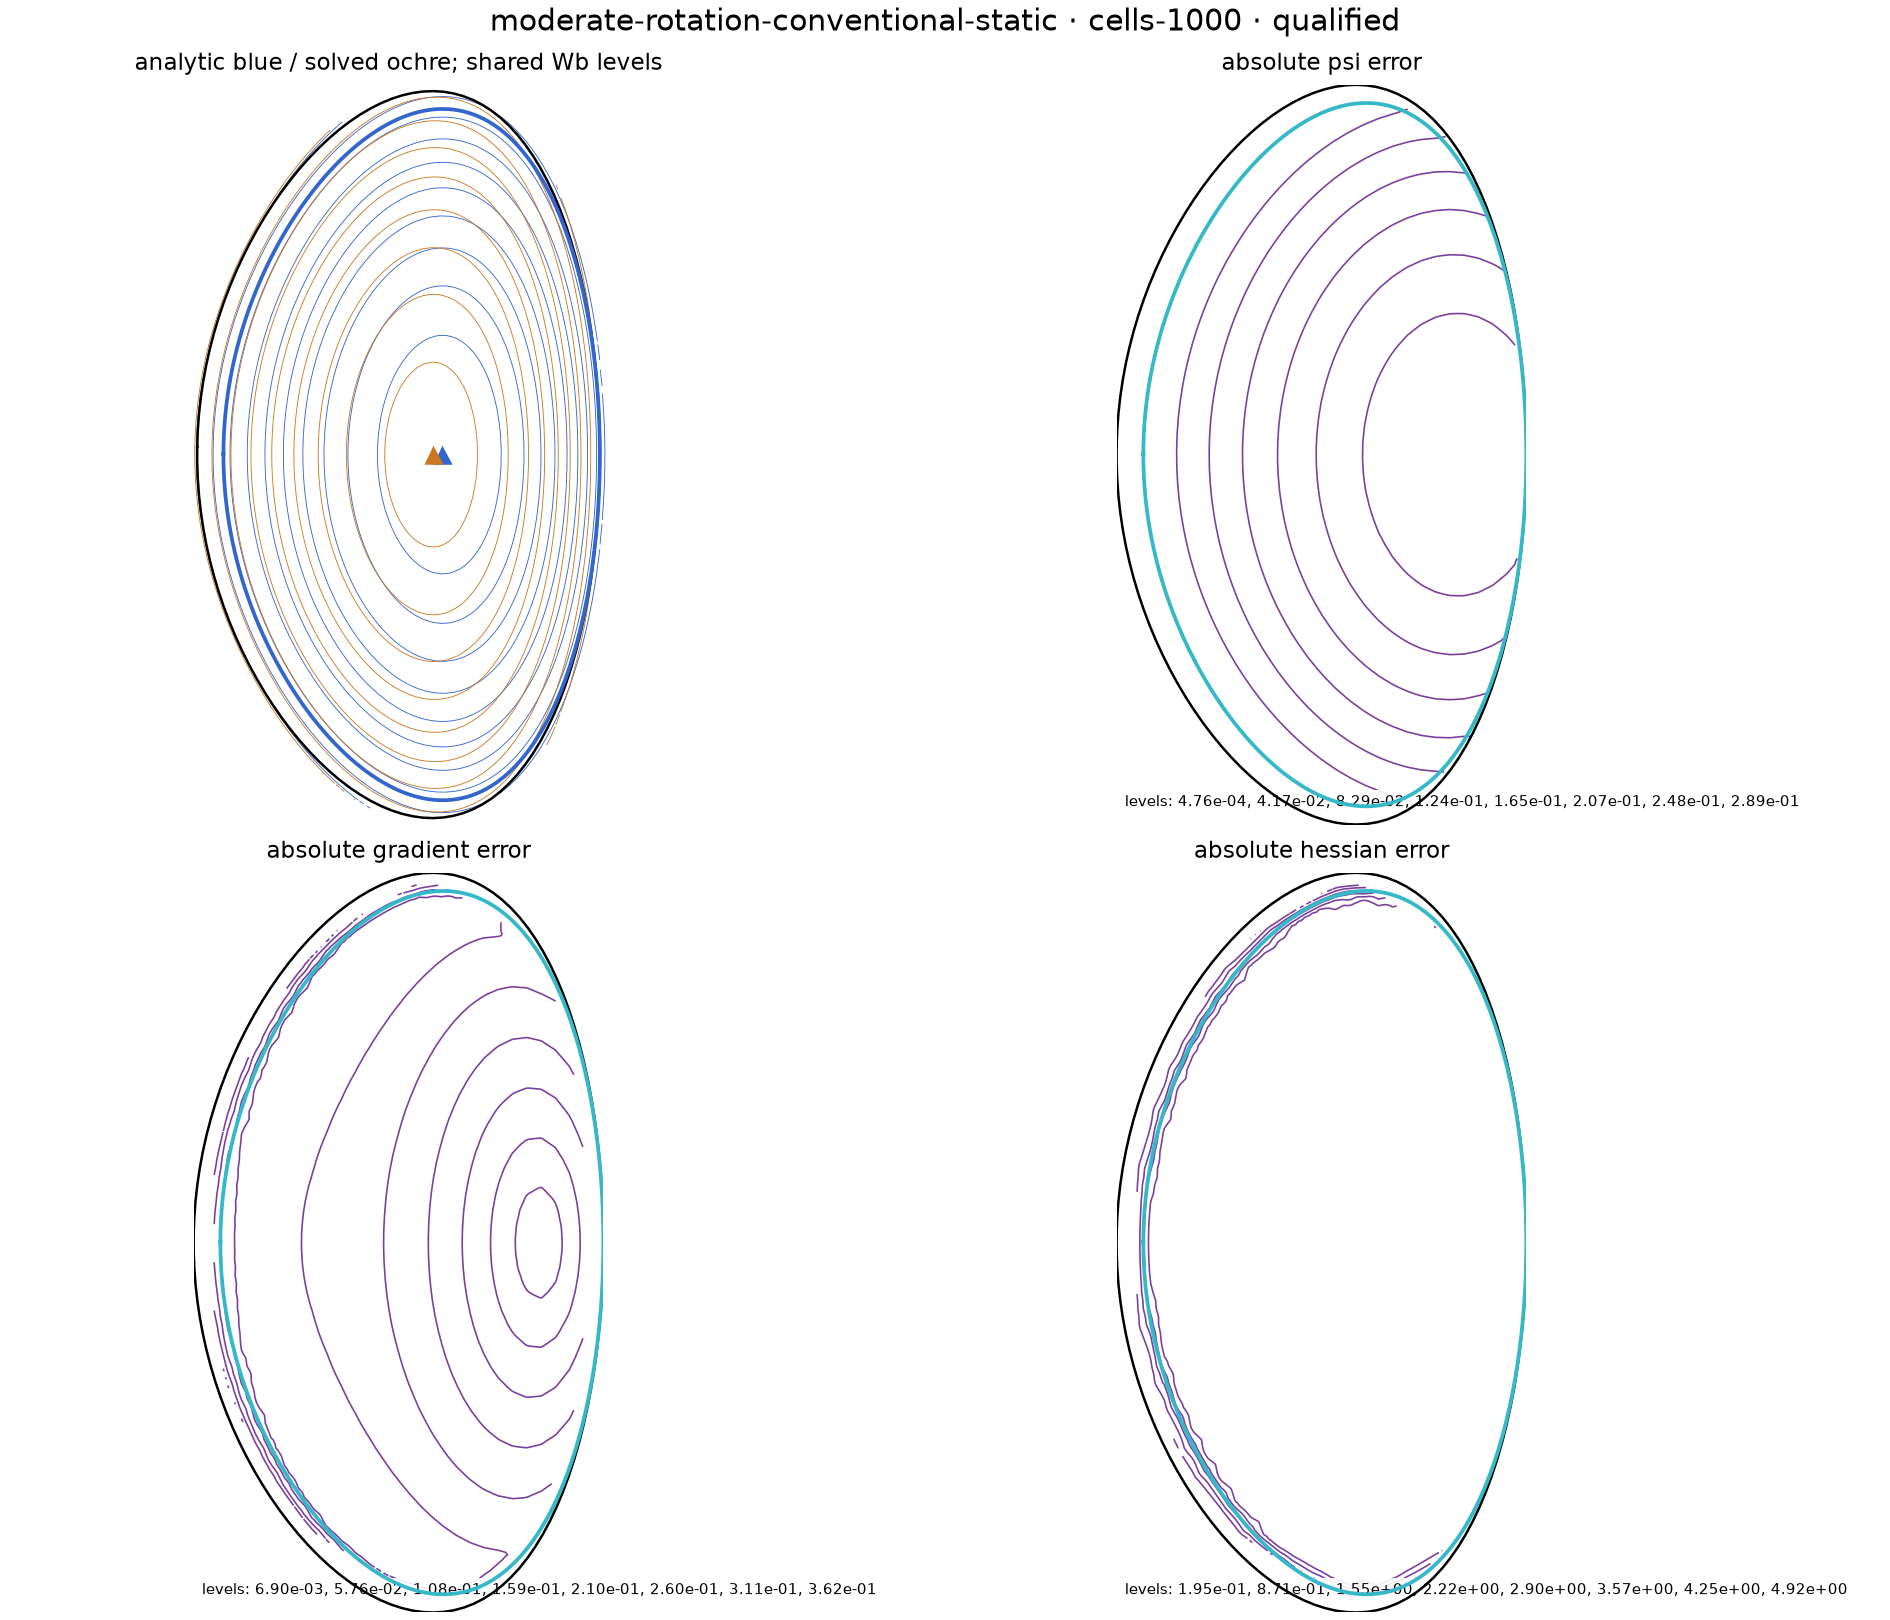
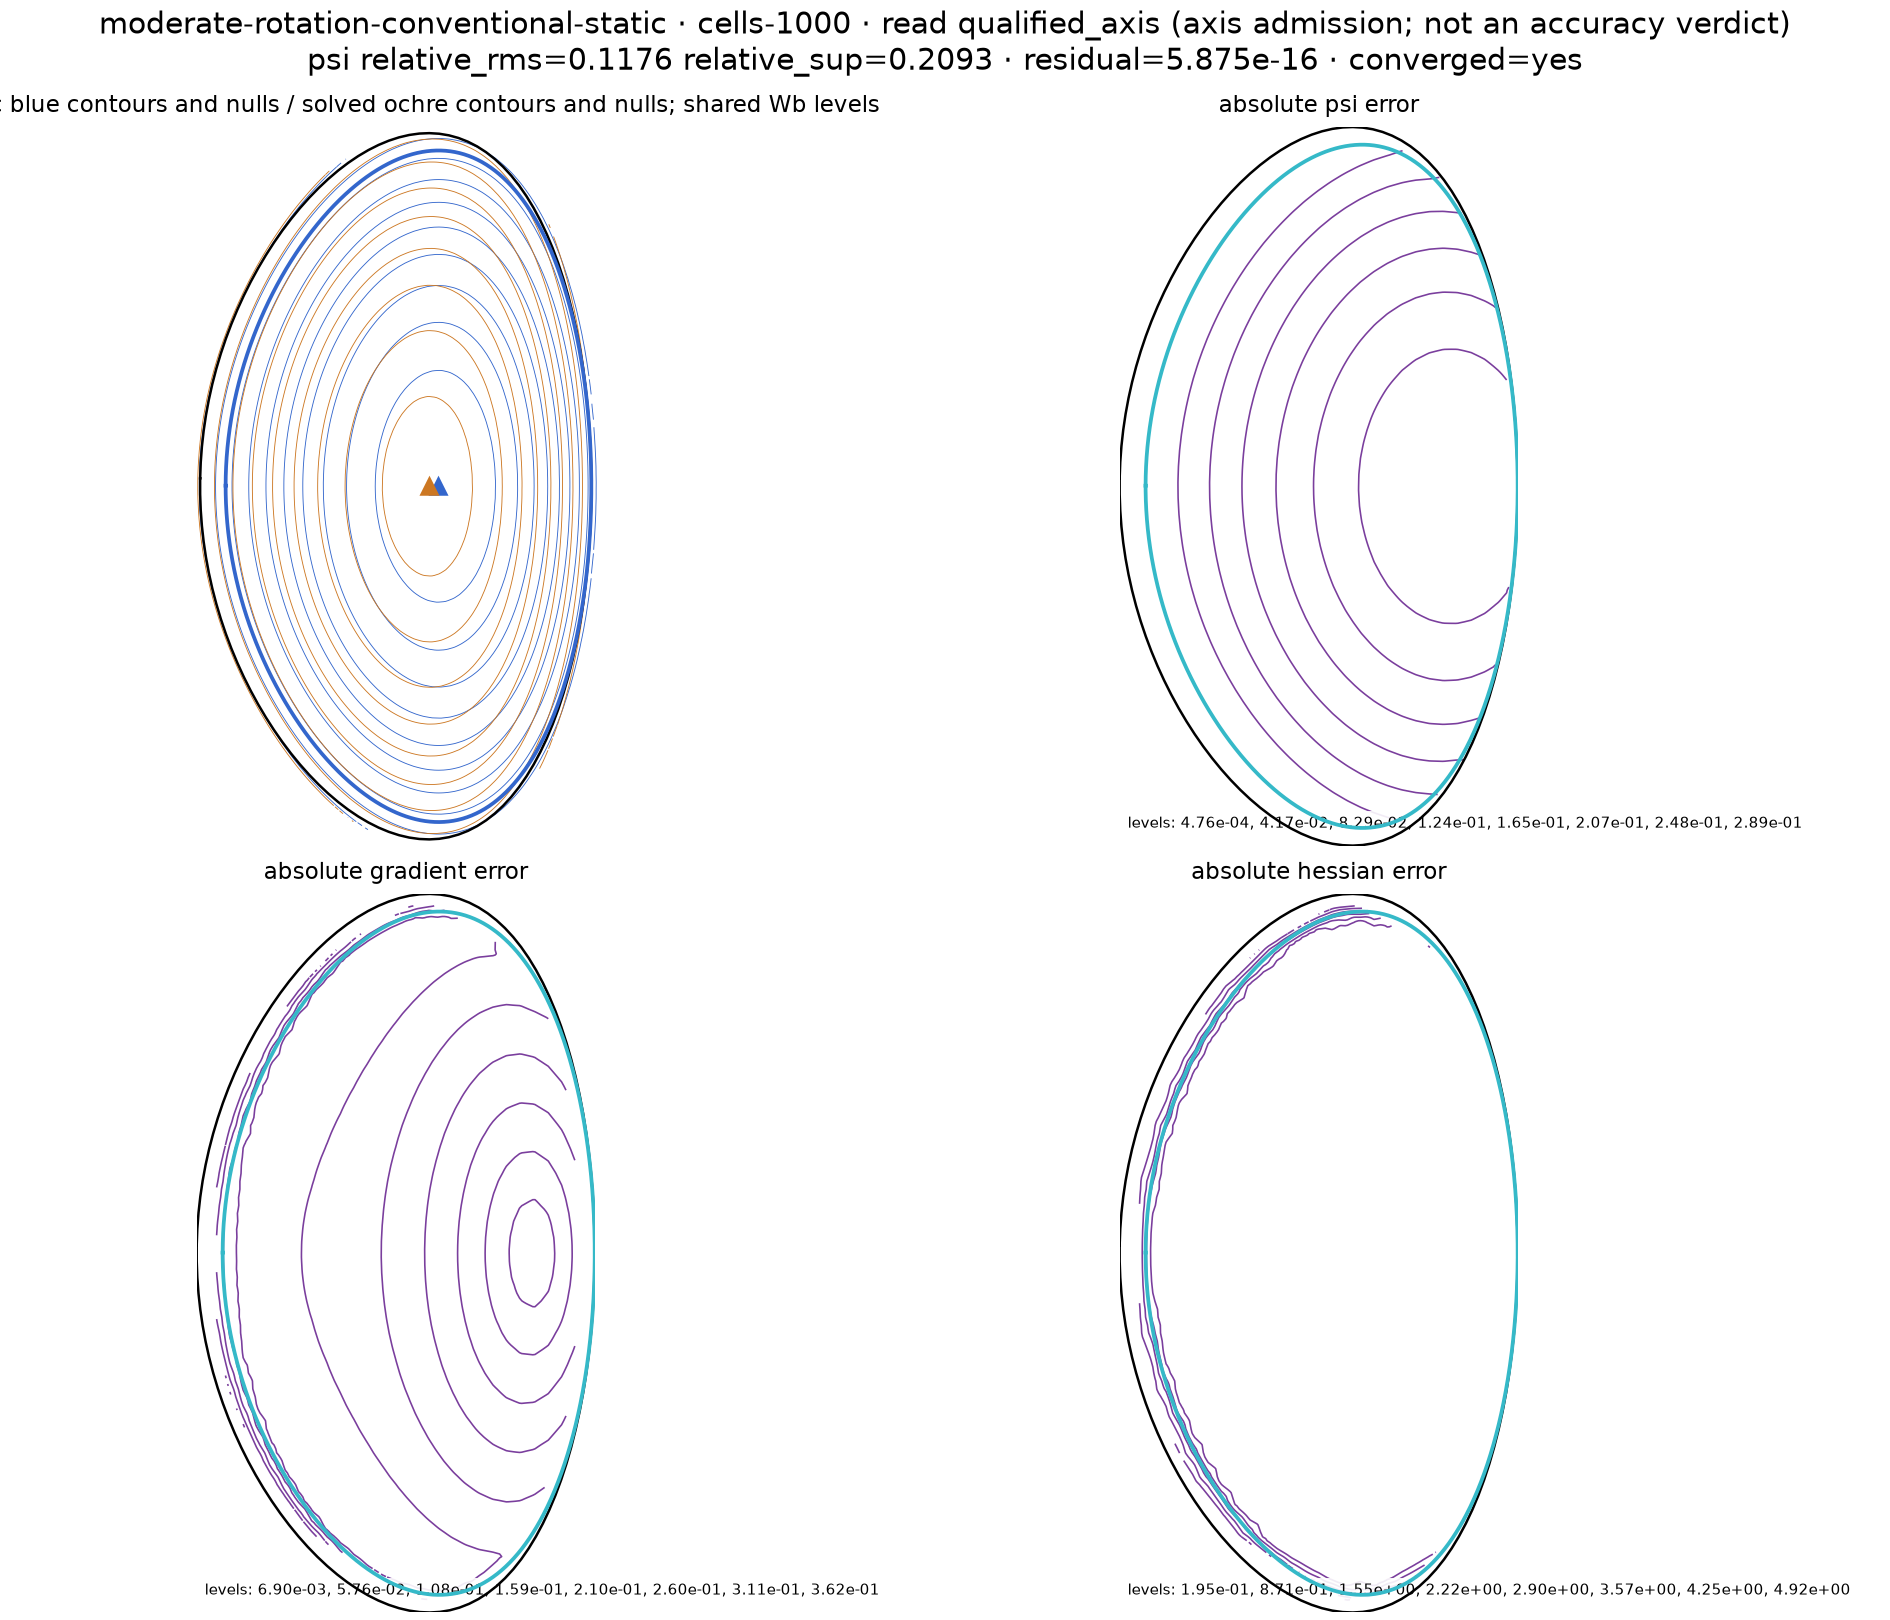
fix(figures): title solovev certificate panels by their axis-admission read
The three 1000-cell chord panels were titled bare "{case} - qualified", the
axis-admission verdict, over a relative RMS flux error near 0.12, so the word
read as an accuracy claim beside a solver that admits an axis without
qualifying its flux accuracy. Re-render each panel from its persisted part
receipt through the committed painter with a title that names the read status,
prints the relative flux error, and carries the terminal residual and converged
flag, all read from the receipt. Record the title back into that receipt and add
a test that re-derives it from the receipt keys, which fails against the
pre-repair panels on the bare qualification.

diff --git a/docs/evidence/fragments/playable-forward-solve/pfs-solovev-certificate-panel-titles.html b/docs/evidence/fragments/playable-forward-solve/pfs-solovev-certificate-panel-titles.html
@@ -1,0 +1,73 @@
+<!doctype html>
+<html lang="en">
+<head>
+<meta charset="utf-8">
+<title>pfs-solovev-certificate-panel-titles — landing record</title>
+</head>
+<body>
+<section id="pfs-solovev-certificate-panel-titles">
+<h2>Three Solovev certificate chord panels title their axis-admission read, not an accuracy claim</h2>
+<p>Repairs <code>f-fsaudit-repair-solovev-certificate-qualified-title</code>. Each of the three
+1000-cell chord panels was titled bare <code>{case} · cells-1000 · qualified</code>: the word was
+the axis-admission verdict (<code>banked_read.read_status</code> = <code>qualified_axis</code>),
+while the receipt's own <code>analytic_flux_regions.all_carrier_cells</code> gives a relative RMS
+flux error near 0.12. The panels were re-rendered from their persisted part receipts through the
+committed <code>benchmarks.solovev_certificate._plot</code> painter — no forward operator is built
+and no solve is entered — with a two-line title that names the read status, prints the relative
+flux error, and carries the terminal residual and converged flag, every number read from
+<code>solve-parts/chord/&lt;case&gt;-production-route-cells-1000.json</code>. The title is recorded
+back into that receipt as <code>figure.panel_title</code>.</p>
+
+<h3>Panels</h3>
+
+<figure>
+<img src="/nova/figures/playable-forward-solve/parallel-components-read/solovev-certificate/solve-panels/chord/weak-rotation-reactor-static-production-route-cells-1000.png" alt="weak-rotation-reactor-static certificate panel">
+<figcaption><code>weak-rotation-reactor-static</code>: read <code>qualified_axis</code> (axis
+admission; not an accuracy verdict) · psi <code>relative_rms=0.1178</code>,
+<code>relative_sup=0.2098</code> (<code>analytic_flux_regions.all_carrier_cells.relative_rms</code>
+/ <code>.relative_sup</code>) · <code>residual=1.388e-15</code>
+(<code>solver.terminal_fixed_point_residual</code>) · <code>converged=yes</code>
+(<code>solver.converged</code>). The flux map draws the analytic and solved sets as unfilled line
+contours on shared Wb levels, both null sets through <code>draw_nulls</code> (solid triangle axis,
+filled cross admitted saddle, hollow other nulls) and the first wall over the unit collection.</figcaption>
+</figure>
+
+<figure>
+<img src="/nova/figures/playable-forward-solve/parallel-components-read/solovev-certificate/solve-panels/chord/moderate-rotation-conventional-static-production-route-cells-1000.png" alt="moderate-rotation-conventional-static certificate panel">
+<figcaption><code>moderate-rotation-conventional-static</code>: read <code>qualified_axis</code> ·
+psi <code>relative_rms=0.1176</code>, <code>relative_sup=0.2093</code> ·
+<code>residual=5.875e-16</code> · <code>converged=yes</code>. Same keys and painter as above.</figcaption>
+</figure>
+
+<figure>
+<img src="/nova/figures/playable-forward-solve/parallel-components-read/solovev-certificate/solve-panels/chord/strong-rotation-compact-static-production-route-cells-1000.png" alt="strong-rotation-compact-static certificate panel">
+<figcaption><code>strong-rotation-compact-static</code>: read <code>qualified_axis</code> ·
+psi <code>relative_rms=0.1155</code>, <code>relative_sup=0.2038</code> ·
+<code>residual=2.913e-16</code> · <code>converged=yes</code>. Same keys and painter as above.</figcaption>
+</figure>
+
+<h3>Accuracy, not admission</h3>
+<p>The <code>qualified_axis</code> verdict admits the axis; it says nothing about flux accuracy.
+The relative RMS on these three arms is <code>0.1176</code>, <code>0.1155</code> and
+<code>0.1178</code>, roughly two orders of magnitude above the accuracy of the diverted control
+row in the same directory (<code>diverted-single-null-production-route-cells-500</code>,
+<code>relative_rms=4.60015e-15</code>), which is why the title now states both facts side by side.
+The diverted row was not re-rendered: its title was never a false accuracy claim.</p>
+
+<h3>Check and negative control</h3>
+<p><code>tests/test_solovev_certificate_panel_titles.py</code> re-derives each title from the part
+receipt keys and asserts the receipt's recorded title matches, that the title is not the bare
+qualification, that it names the read status and the relative error, and that the receipt digest
+matches the panel on disk. Against the committed pre-repair panels the same test fails on the bare
+<code>qualified</code> title (9 failed, exit 1).</p>
+
+<h3>Out of scope</h3>
+<ul>
+<li>The followup's items (2) and (3) — the error panels draw only absolute levels, so the four
+panels cannot be compared as drawn, and the level strings sit over the wall polyline — are a
+re-render of the error fields, not a caption defect, and are outside this node's write scope.
+Recorded under follow_ons.</li>
+</ul>
+</section>
+</body>
+</html>

diff --git a/benchmarks/parallel_components_read.py b/benchmarks/parallel_components_read.py
@@ -15,6 +15,7 @@ import argparse
 from contextlib import contextmanager
 from datetime import UTC, datetime
 from functools import partial
+import hashlib
 import json
 import os
 from pathlib import Path
@@ -32,6 +33,7 @@ import matplotlib.pyplot as plt
 import numpy as np
 
 from benchmarks import limited_row_shadow_census as certificate_gate
+from benchmarks import solovev_certificate as certificate
 from benchmarks import trip_quantum_width_one as trip_quantum
 from nova.equilibrium import (
     connectivity_boundary,
@@ -391,6 +393,88 @@ def _solovev_terminal_identity(output_root: Path) -> dict[str, Any]:
     }
 
 
+def _format_statistic(value: Any) -> str:
+    return "n/a" if value is None else f"{float(value):.4g}"
+
+
+def solovev_panel_title(row: dict[str, Any]) -> str:
+    """Compose a chord panel's title from the part receipt's own keys.
+
+    The panel's qualification is an axis-admission verdict, not an accuracy
+    verdict, so the title names the read status and prints the relative flux
+    error beside it. The terminal residual and converged flag complete the
+    caption a forward-solve evidence record carries.
+    """
+
+    region = row["analytic_flux_regions"]["all_carrier_cells"]
+    solver = row["solver"]
+    converged = bool(solver["converged"])
+    return (
+        f"{row['case']} · {certificate._slug(row['requested_cells'])} · "
+        f"read {row['banked_read']['read_status']} "
+        "(axis admission; not an accuracy verdict)\n"
+        f"psi relative_rms={_format_statistic(region['relative_rms'])} "
+        f"relative_sup={_format_statistic(region['relative_sup'])} · "
+        f"residual={float(solver['terminal_fixed_point_residual']):.3e} · "
+        f"converged={'yes' if converged else 'no'}"
+    )
+
+
+def _render_solovev_panels(output_root: Path) -> list[dict[str, Any]]:
+    """Regenerate the limited-cell chord panels with receipt-derived titles.
+
+    Every field is read from the persisted part receipt, so no forward operator
+    is constructed and no solve is entered. Each panel is redrawn through the
+    committed painter with its title read from the same receipt, and the title
+    and refreshed digest are written back into that receipt.
+    """
+
+    part_root = output_root / "solovev-certificate" / "solve-parts" / "chord"
+    parts = sorted(part_root.glob("*-production-route-cells-1000.json"))
+    if not parts:
+        raise RuntimeError(f"no 1000-cell solve parts under {part_root}")
+    rows: list[dict[str, Any]] = []
+    for part in parts:
+        row = json.loads(part.read_text(encoding="utf-8"))
+        data = row["render_data"]
+        title = solovev_panel_title(row)
+        figure_path = ROOT / row["figure"]["filesystem_path"]
+        figure = certificate._plot(
+            np.asarray(data["coordinates_rz_m"], dtype=np.float64),
+            np.asarray(data["terminal_flux_wb"], dtype=np.float64),
+            np.asarray(data["analytic_flux_wb"], dtype=np.float64),
+            np.asarray(data["derivative_coordinates_rz_m"], dtype=np.float64),
+            {
+                name: np.asarray(data["error_fields"][name], dtype=np.float64)
+                for name in certificate.NORM_FIELDS
+            },
+            np.asarray(data["boundary_rz_m"], dtype=np.float64),
+            np.asarray(data["wall_units_rz_m"][0], dtype=np.float64),
+            data["terminal_topology"],
+            data["analytic_topology"],
+            figure_path,
+            title,
+        )
+        plt.close(figure)
+        figure_path.with_suffix(".svg").unlink(missing_ok=True)
+        row["figure"]["panel_title"] = title
+        row["figure"]["render_source"] = "persisted_part_receipt_panel_title"
+        row["figure"]["sha256"] = hashlib.sha256(figure_path.read_bytes()).hexdigest()
+        _write_json(part, row)
+        rows.append(
+            {
+                "case": row["case"],
+                "part_filesystem_path": str(part.relative_to(ROOT)),
+                "figure_filesystem_path": str(figure_path.relative_to(ROOT)),
+                "panel_title": title,
+            }
+        )
+        print("SOLOVEV_PANEL_TITLE " + json.dumps(rows[-1], sort_keys=True), flush=True)
+    print(f"SOLOVEV_PANEL_TITLES_RENDERED={len(rows)}", flush=True)
+    print("EXIT_MARKER=0", flush=True)
+    return rows
+
+
 def _finalize_existing(output_root: Path) -> None:
     receipt_path = output_root / "parallel-components-read-receipt.json"
     receipt = json.loads(receipt_path.read_text(encoding="utf-8"))
@@ -451,6 +535,7 @@ def main() -> None:
     parser = argparse.ArgumentParser(description=__doc__)
     parser.add_argument("--output-root", type=Path, default=DEFAULT_OUTPUT_ROOT)
     parser.add_argument("--finalize-existing", action="store_true")
+    parser.add_argument("--render-solovev-panels", action="store_true")
     parser.add_argument("--mast-paired-only", action="store_true")
     arguments = parser.parse_args()
     output_root = arguments.output_root.resolve()
@@ -459,6 +544,9 @@ def main() -> None:
 
     if arguments.finalize_existing:
         _finalize_existing(output_root)
+        return
+    if getattr(arguments, "render_solovev_panels", False):
+        _render_solovev_panels(output_root)
         return
 
     configure_dtypes()

diff --git a/tests/test_solovev_certificate_panel_titles.py b/tests/test_solovev_certificate_panel_titles.py
@@ -1,0 +1,81 @@
+"""The limited-cell chord panels title their axis-admission read honestly.
+
+Each panel's qualification is an axis-admission verdict, not an accuracy
+verdict, so its title must name the read status and print the relative flux
+error beside it, together with the terminal residual and converged flag. The
+three tests read only the part receipt the panel was drawn from, so a title
+recorded there and a title a reader derives from the same receipt keys must
+agree, and the receipt must describe the panel actually on disk.
+"""
+
+from __future__ import annotations
+
+import hashlib
+import json
+from pathlib import Path
+
+import pytest
+
+from benchmarks.parallel_components_read import solovev_panel_title
+
+
+ROOT = Path(__file__).resolve().parents[1]
+PART_ROOT = (
+    ROOT
+    / "docs/figures/playable-forward-solve/parallel-components-read"
+    / "solovev-certificate/solve-parts/chord"
+)
+CASES = (
+    "weak-rotation-reactor-static",
+    "moderate-rotation-conventional-static",
+    "strong-rotation-compact-static",
+)
+
+
+def _read_row(case: str) -> dict:
+    part = PART_ROOT / f"{case}-production-route-cells-1000.json"
+    return json.loads(part.read_text(encoding="utf-8"))
+
+
+@pytest.mark.parametrize("case", CASES)
+def test_panel_title_is_not_the_bare_qualification(case: str) -> None:
+    row = _read_row(case)
+    recorded = row.get("figure", {}).get("panel_title", row["solver"]["qualification"])
+    assert recorded != row["solver"]["qualification"], (
+        f"panel title is the bare qualification {recorded!r}; it must read the "
+        "axis-admission status and the relative flux error"
+    )
+    assert "axis admission" in recorded
+    assert "relative_rms=" in recorded
+    assert "relative_sup=" in recorded
+    assert "residual=" in recorded
+    assert "converged=" in recorded
+
+
+@pytest.mark.parametrize("case", CASES)
+def test_panel_title_re_derives_from_receipt_keys(case: str) -> None:
+    row = _read_row(case)
+    recorded = row["figure"]["panel_title"]
+    assert recorded == solovev_panel_title(row)
+
+
+@pytest.mark.parametrize("case", CASES)
+def test_panel_title_reads_the_receipt_error_keys(case: str) -> None:
+    row = _read_row(case)
+    region = row["analytic_flux_regions"]["all_carrier_cells"]
+    assert region["relative_rms"] is not None
+    assert region["relative_sup"] is not None
+    assert row["banked_read"]["read_status"].startswith("qualified_")
+    title = row["figure"]["panel_title"]
+    assert f"read {row['banked_read']['read_status']}" in title
+    assert f"relative_rms={region['relative_rms']:.4g}" in title
+    assert f"relative_sup={region['relative_sup']:.4g}" in title
+
+
+@pytest.mark.parametrize("case", CASES)
+def test_panel_receipt_describes_the_drawn_panel(case: str) -> None:
+    row = _read_row(case)
+    panel = ROOT / row["figure"]["filesystem_path"]
+    assert panel.is_file()
+    digest = hashlib.sha256(panel.read_bytes()).hexdigest()
+    assert digest == row["figure"]["sha256"]
